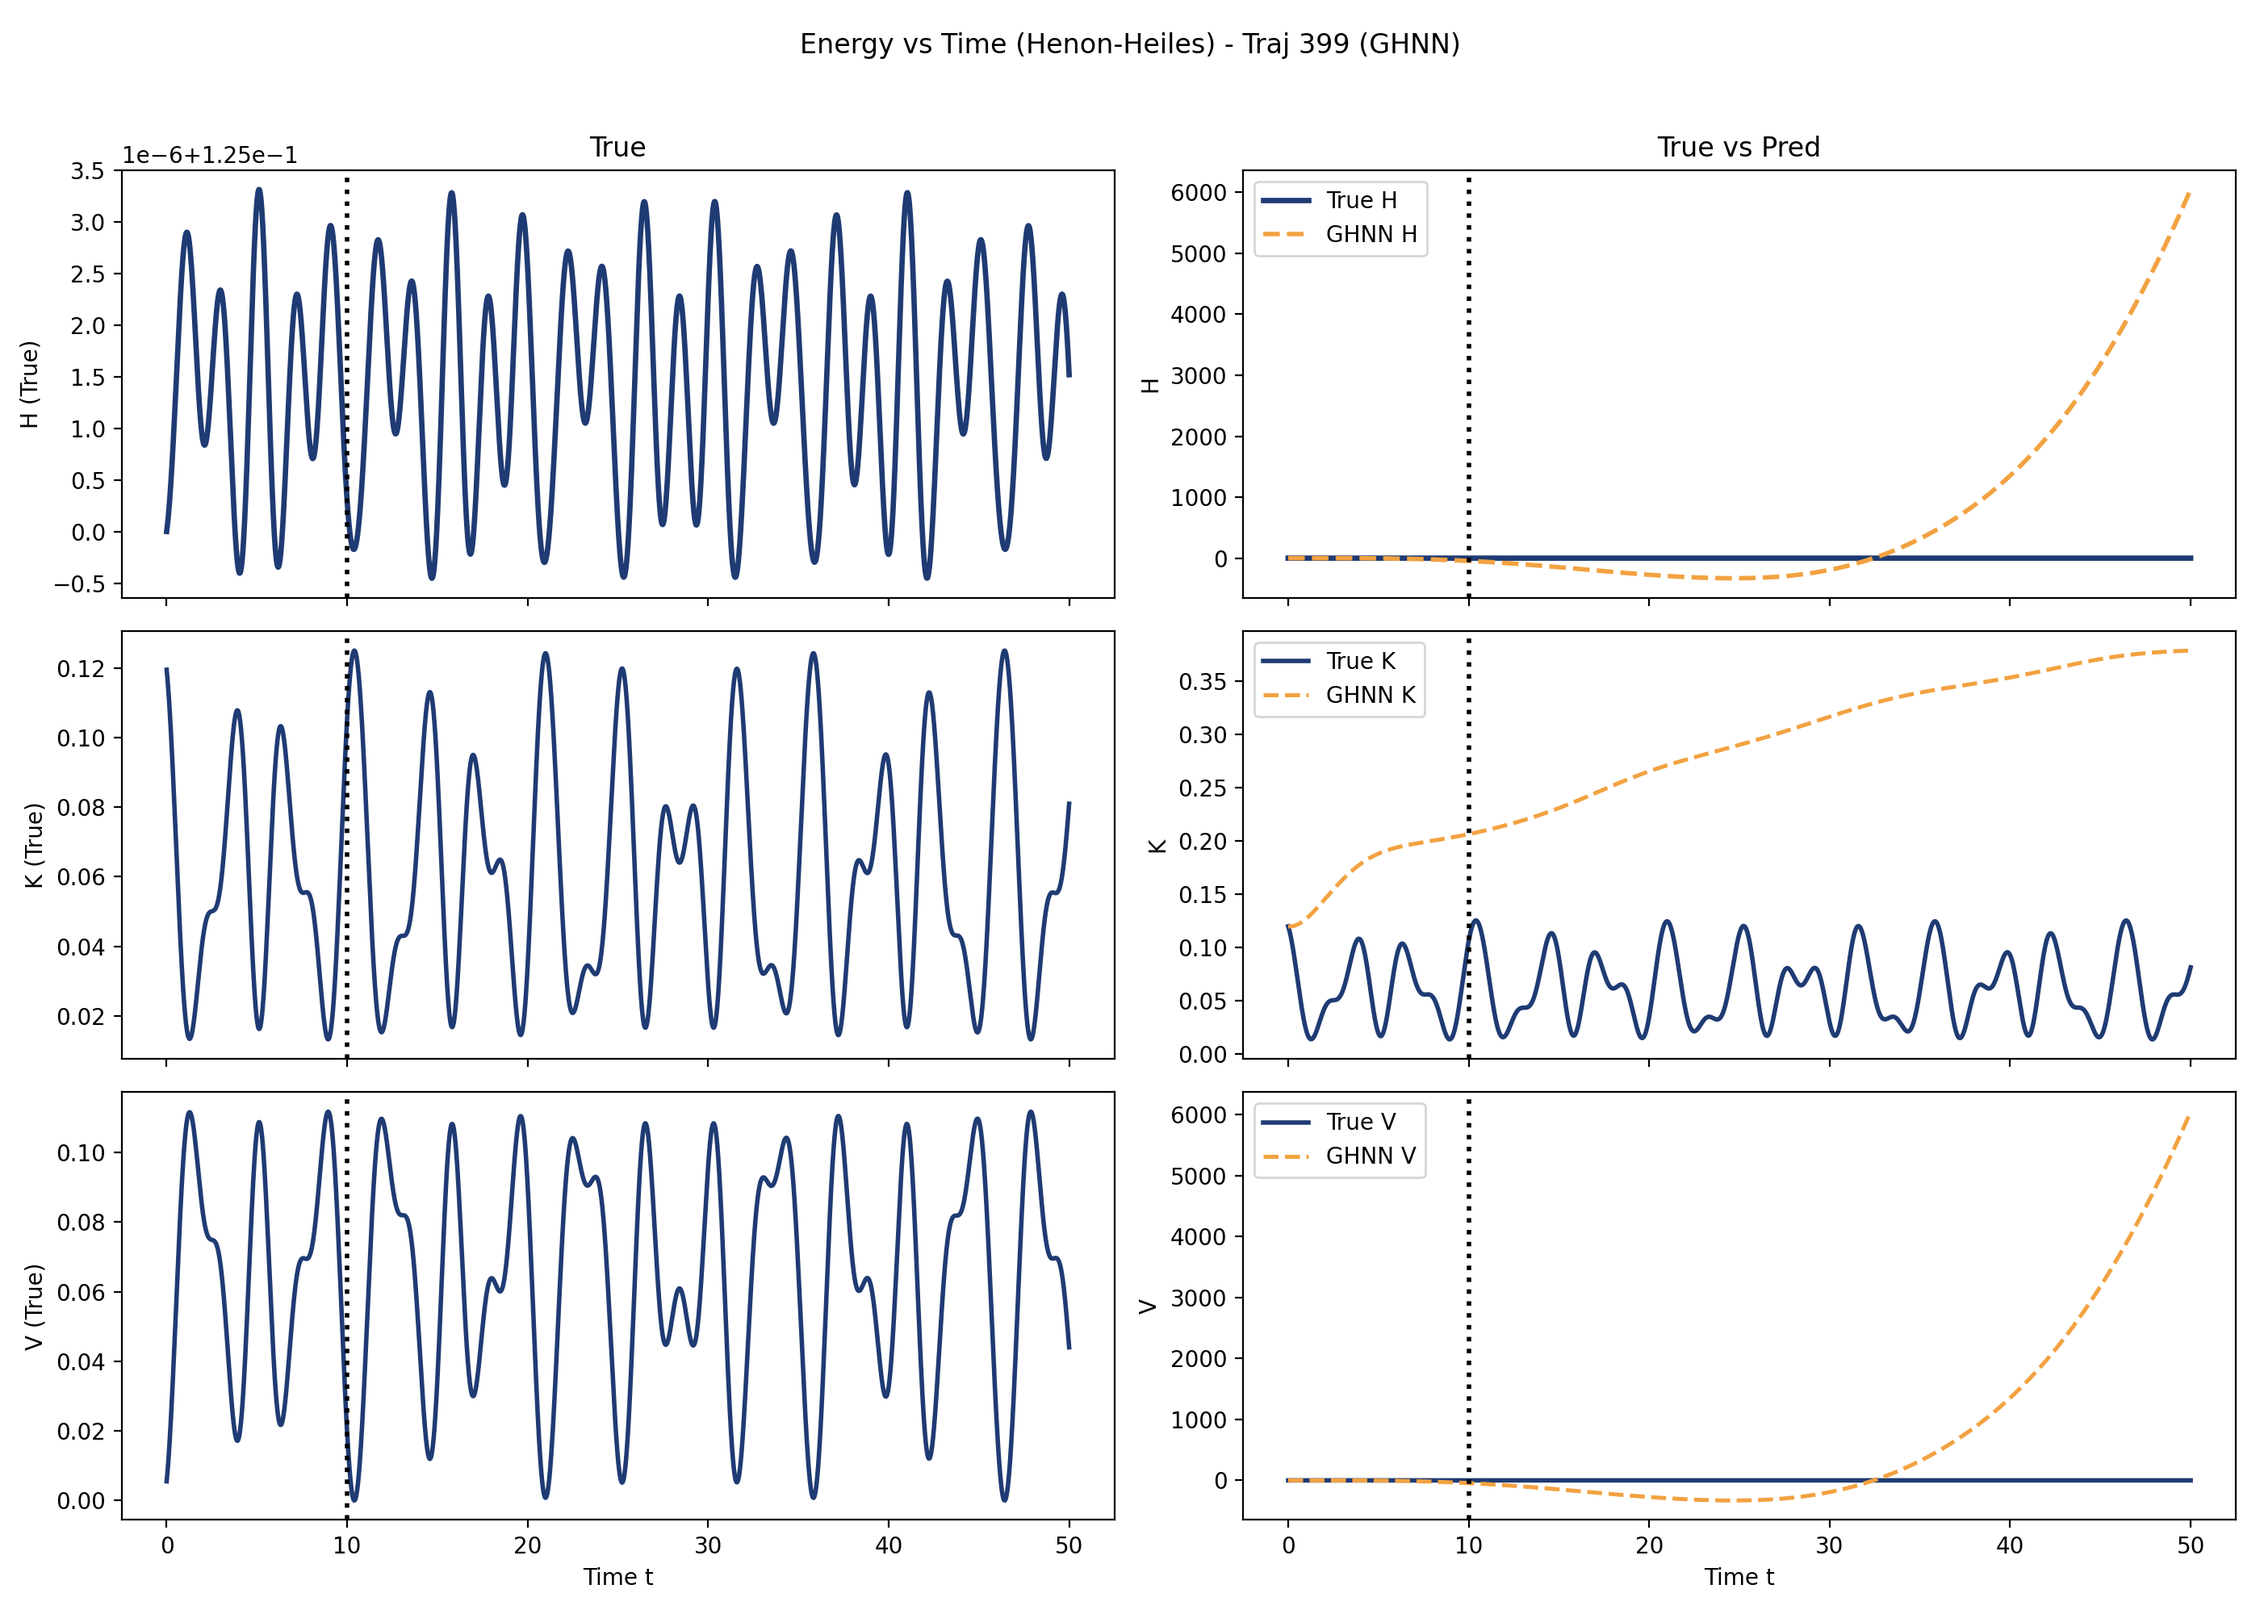
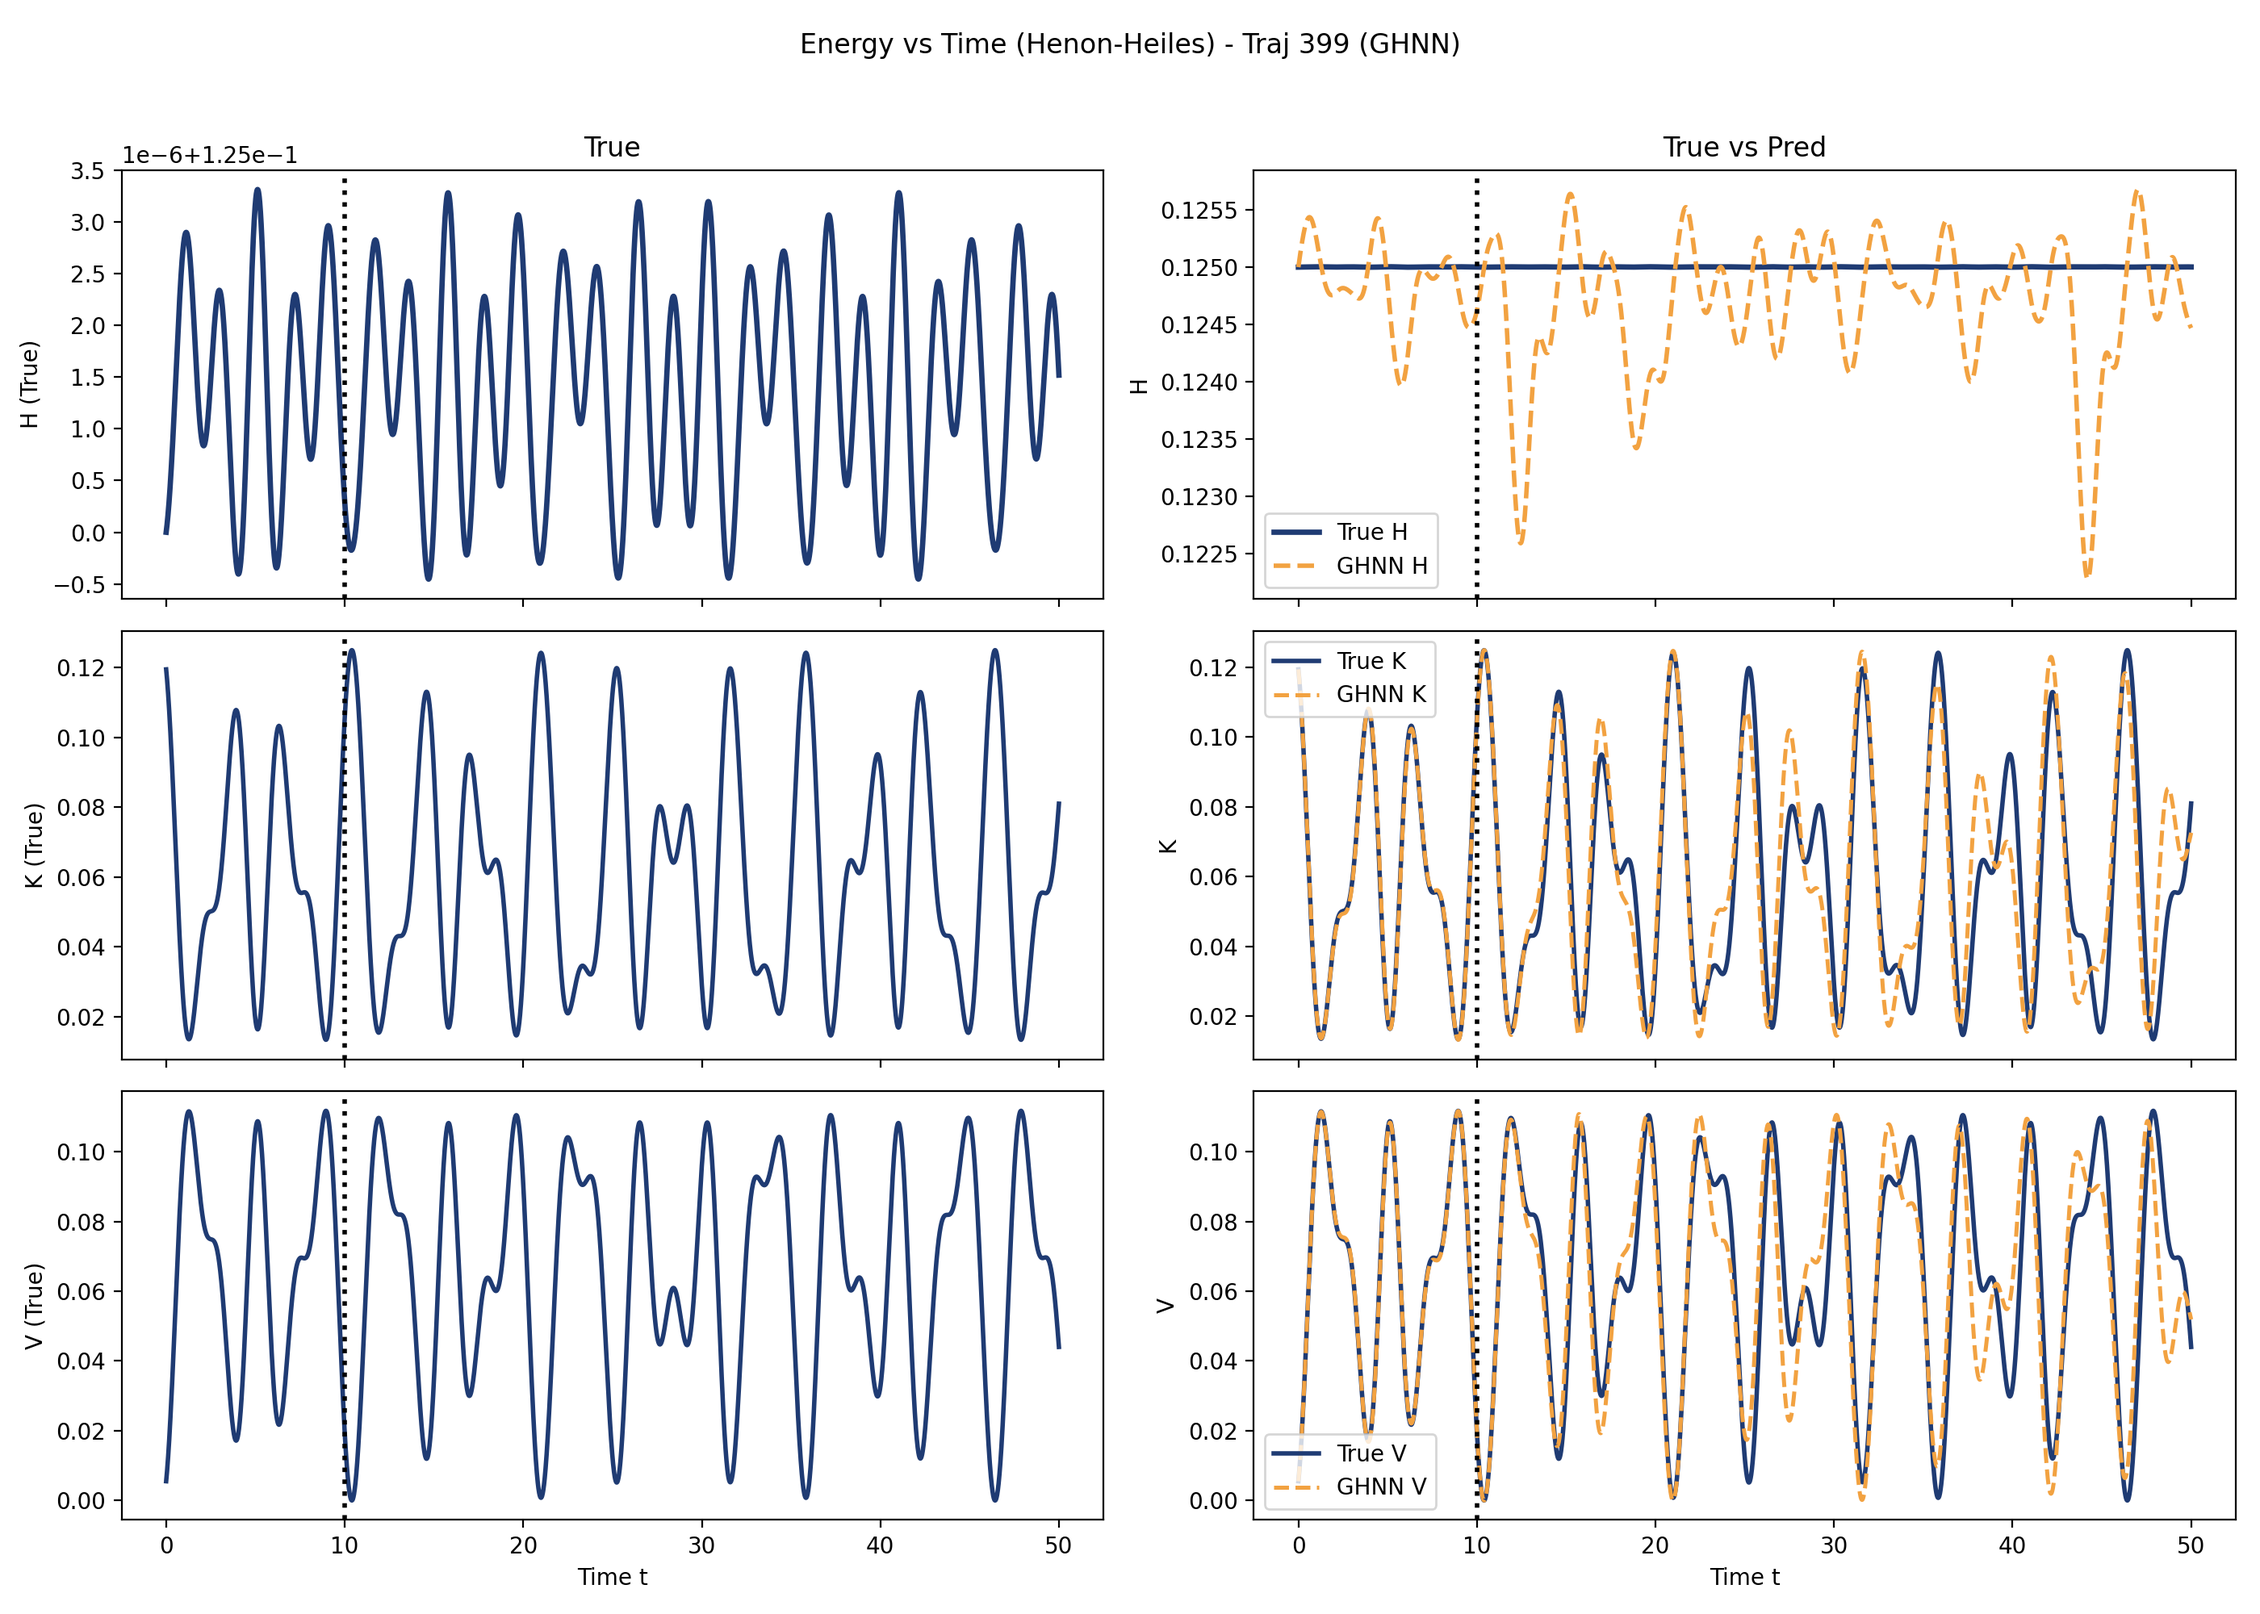
fix the model of ghnn in the henonheiles

diff --git a/04_GHNN/03_henonheiles/ghnn_model_henonheiles.py b/04_GHNN/03_henonheiles/ghnn_model_henonheiles.py
@@ -1,7 +1,6 @@
 import torch
 import torch.nn as nn
 
-
 # ============================================================
 # Henon–Heiles specific GHNN (Separable Hamiltonian)
 # State: z = [x, y, px, py]
@@ -75,9 +74,9 @@ class GHNN_HenonHeiles(nn.Module):
                                            activation=activation)
 
     def forward(self, x: torch.Tensor, step: float = 0.01) -> torch.Tensor:
-        # split
-        q = x[:, 0:2].clone().detach().requires_grad_(True)
-        p = x[:, 2:4].clone().detach().requires_grad_(True)
+        # split: 去掉了 .detach()，保持计算图的完整性
+        q = x[:, 0:2].clone().requires_grad_(True)
+        p = x[:, 2:4].clone().requires_grad_(True)
 
         # 1) p_next = p - h * dU/dq(q)
         U = self.H.U(q)                      # [B]
@@ -85,7 +84,7 @@ class GHNN_HenonHeiles(nn.Module):
         p_next = p - step * grad_q
 
         # 2) q_next = q + h * dT/dp(p_next)
-        p_next = p_next.clone().detach().requires_grad_(True)
+        # 【核心修复】：直接使用 p_next 计算动能 T，绝不断开计算图！
         T = self.H.T(p_next)                # [B]
         grad_p = torch.autograd.grad(T.sum(), p_next, create_graph=True)[0]  # [B,2]
         q_next = q + step * grad_p
